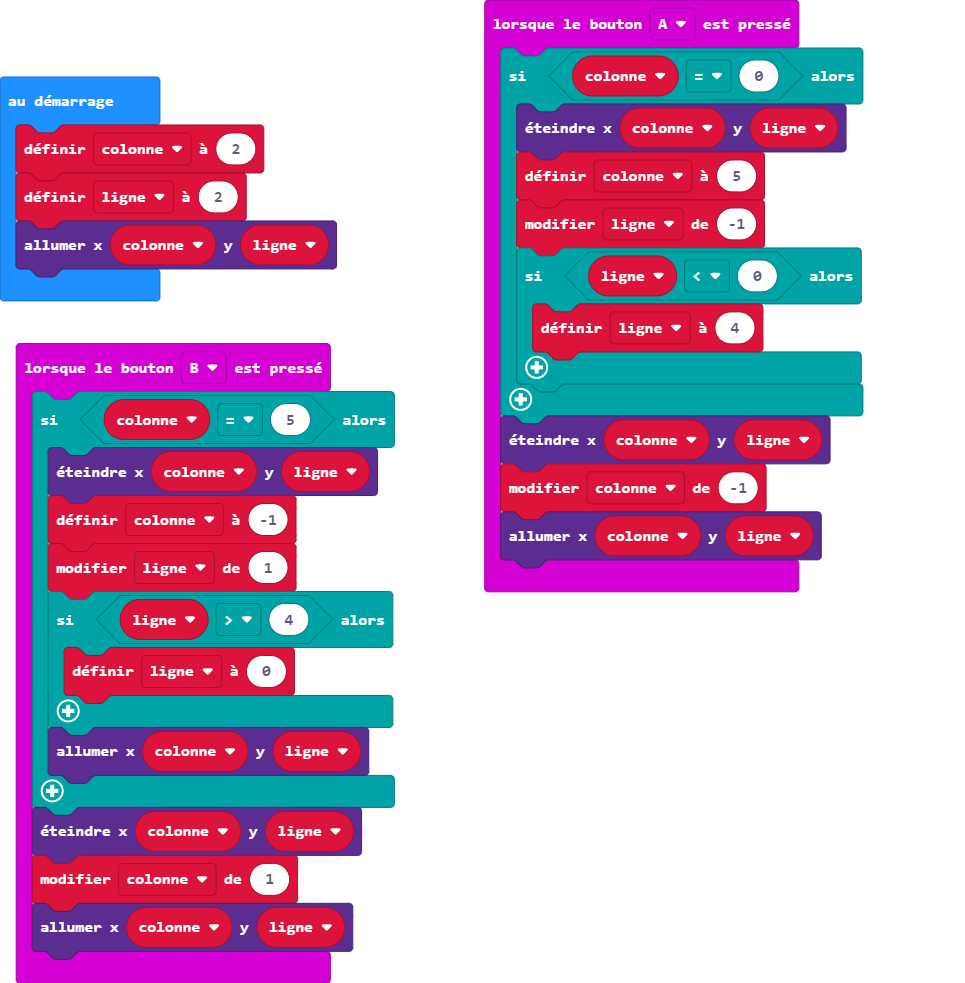
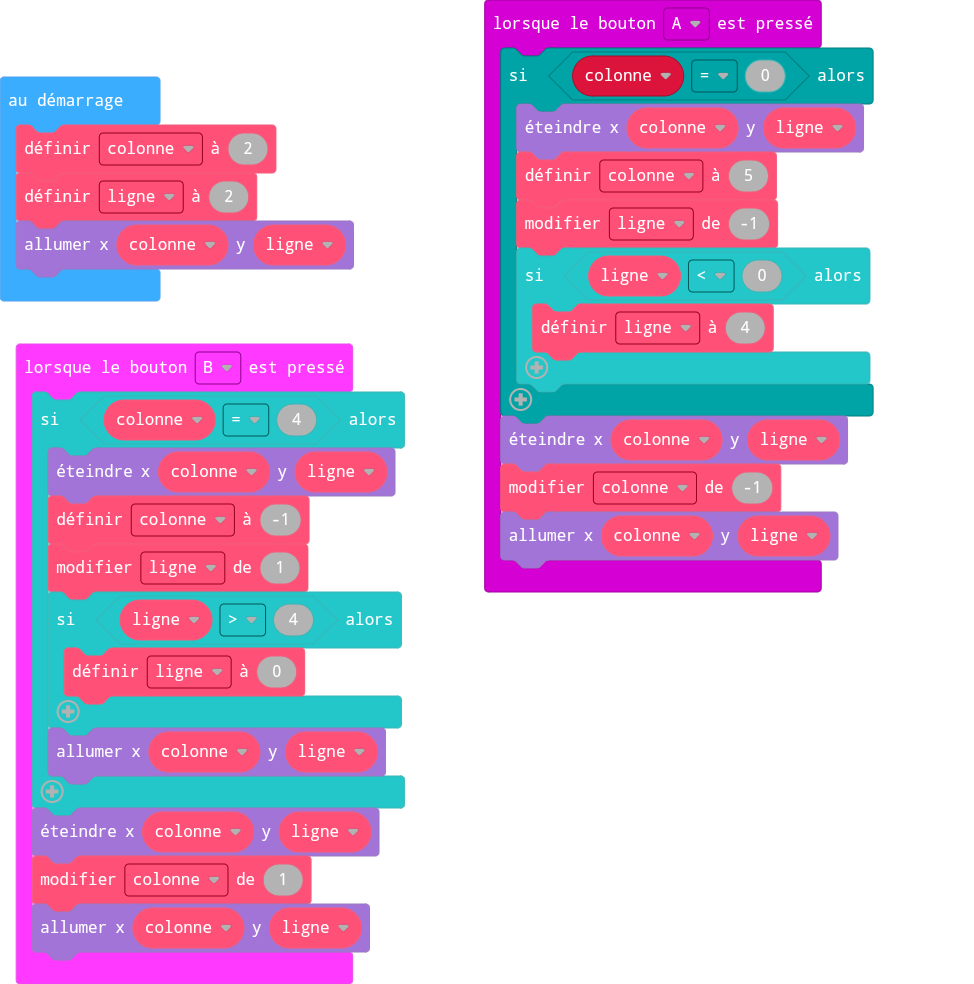
Mise à jour main.blocks, main.ts

diff --git a/main.ts b/main.ts
@@ -12,7 +12,7 @@ input.onButtonPressed(Button.A, function () {
     led.plot(colonne, ligne)
 })
 input.onButtonPressed(Button.B, function () {
-    if (colonne == 5) {
+    if (colonne == 4) {
         led.unplot(colonne, ligne)
         colonne = -1
         ligne += 1
